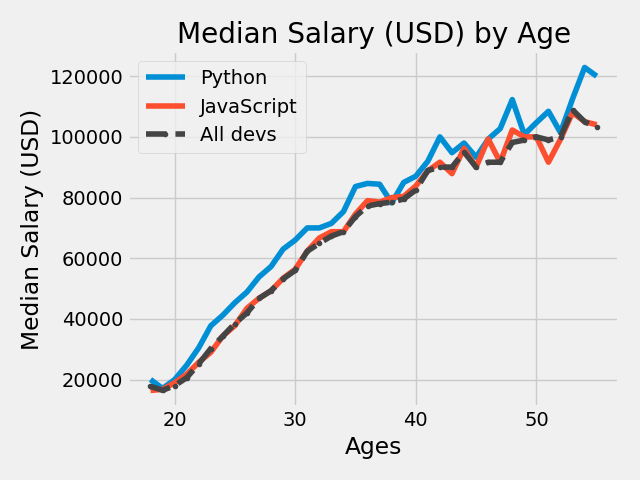
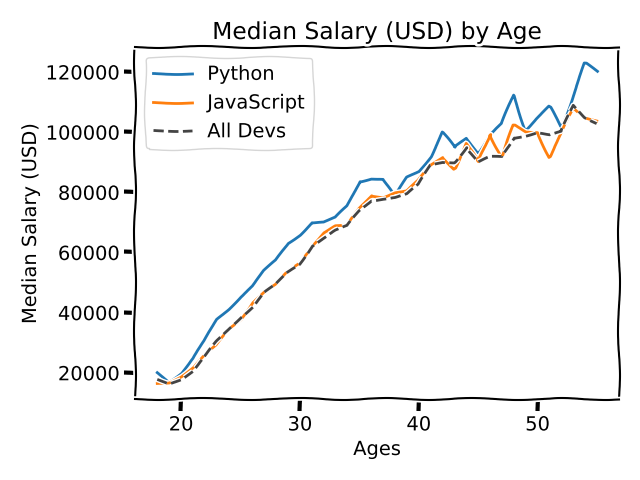
new matplolib

diff --git a/Matplotlib/part1.py b/Matplotlib/part1.py
@@ -1,0 +1,31 @@
+
+from matplotlib import pyplot as plt
+
+plt.xkcd()
+
+ages_x = [18, 19, 20, 21, 22, 23, 24, 25, 26, 27, 28, 29, 30, 31, 32, 33, 34, 35,
+          36, 37, 38, 39, 40, 41, 42, 43, 44, 45, 46, 47, 48, 49, 50, 51, 52, 53, 54, 55]
+
+py_dev_y = [20046, 17100, 20000, 24744, 30500, 37732, 41247, 45372, 48876, 53850, 57287, 63016, 65998, 70003, 70000, 71496, 75370, 83640, 84666,
+            84392, 78254, 85000, 87038, 91991, 100000, 94796, 97962, 93302, 99240, 102736, 112285, 100771, 104708, 108423, 101407, 112542, 122870, 120000]
+plt.plot(ages_x, py_dev_y, label='Python')
+
+js_dev_y = [16446, 16791, 18942, 21780, 25704, 29000, 34372, 37810, 43515, 46823, 49293, 53437, 56373, 62375, 66674, 68745, 68746, 74583, 79000,
+            78508, 79996, 80403, 83820, 88833, 91660, 87892, 96243, 90000, 99313, 91660, 102264, 100000, 100000, 91660, 99240, 108000, 105000, 104000]
+plt.plot(ages_x, js_dev_y, label='JavaScript')
+
+dev_y = [17784, 16500, 18012, 20628, 25206, 30252, 34368, 38496, 42000, 46752, 49320, 53200, 56000, 62316, 64928, 67317, 68748, 73752, 77232,
+         78000, 78508, 79536, 82488, 88935, 90000, 90056, 95000, 90000, 91633, 91660, 98150, 98964, 100000, 98988, 100000, 108923, 105000, 103117]
+plt.plot(ages_x, dev_y, color='#444444', linestyle='--', label='All Devs')
+
+plt.xlabel('Ages')
+plt.ylabel('Median Salary (USD)')
+plt.title('Median Salary (USD) by Age')
+
+plt.legend()
+
+plt.tight_layout()
+
+plt.savefig('plot.png')
+
+plt.show()

diff --git a/Matplotlib/part4.py b/Matplotlib/part4.py
@@ -1,0 +1,25 @@
+from matplotlib import pyplot as plt
+
+plt.style.use("fivethirtyeight")
+
+minutes = [1, 2, 3, 4, 5, 6, 7, 8, 9]
+
+player1 = [8, 6, 5, 5, 4, 2, 1, 1, 0]
+player2 = [0, 1, 2, 2, 2, 4, 4, 4, 4]
+player3 = [0, 1, 1, 1, 2, 2, 3, 3, 4]
+
+labels = ['player1', 'player2', 'player3']
+colors = ['#008fd5', '#fc4f30', '#6d904f']
+plt.stackplot(minutes, player1, player2, player3, labels=labels, colors=colors)
+
+plt.legend(loc=(0.07, 0.05))  # 7 % from left and 5 % from bottom
+
+plt.title("My Awesome Stack Plot")
+plt.tight_layout()
+plt.show()
+
+# Colors:
+# Blue = #008fd5
+# Red = #fc4f30
+# Yellow = #e5ae37
+# Green = #6d904f

diff --git a/Matplotlib/part2.py b/Matplotlib/part2.py
@@ -1,7 +1,6 @@
 import csv
 from matplotlib import pyplot as plt
 from collections import Counter
-import numpy as np
 import pandas as pd
 
 plt.style.use("fivethirtyeight")
